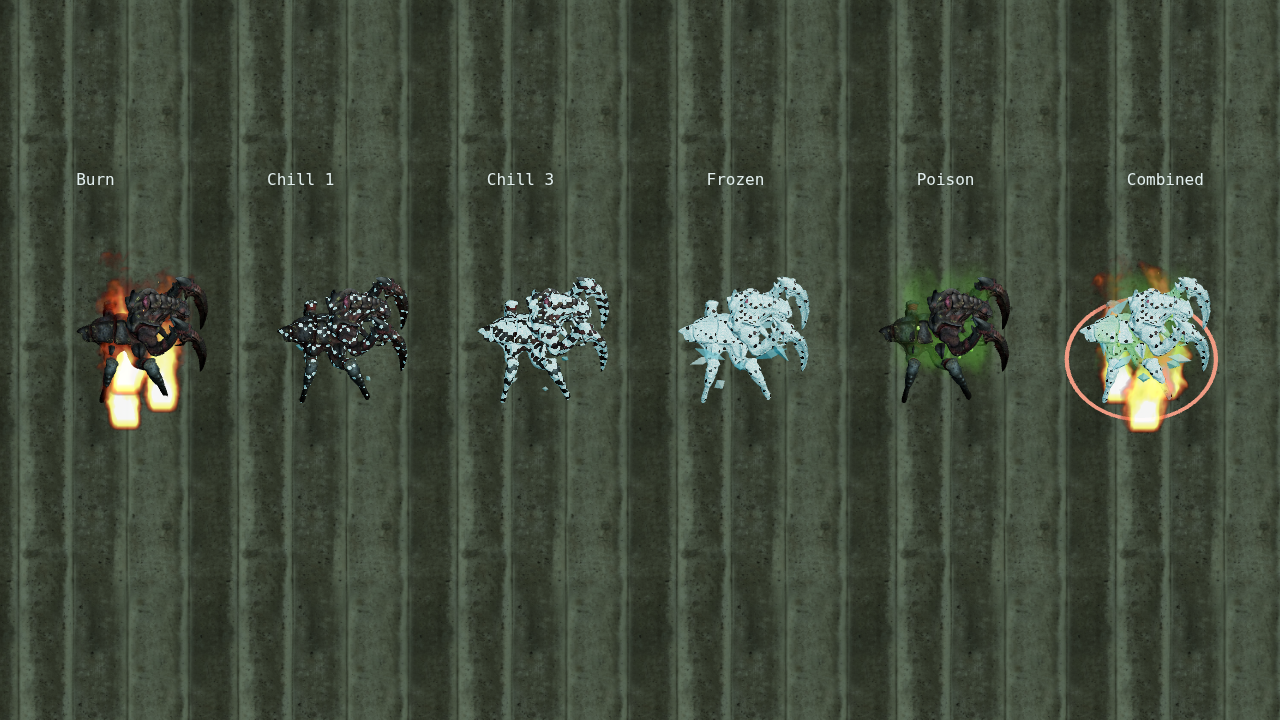
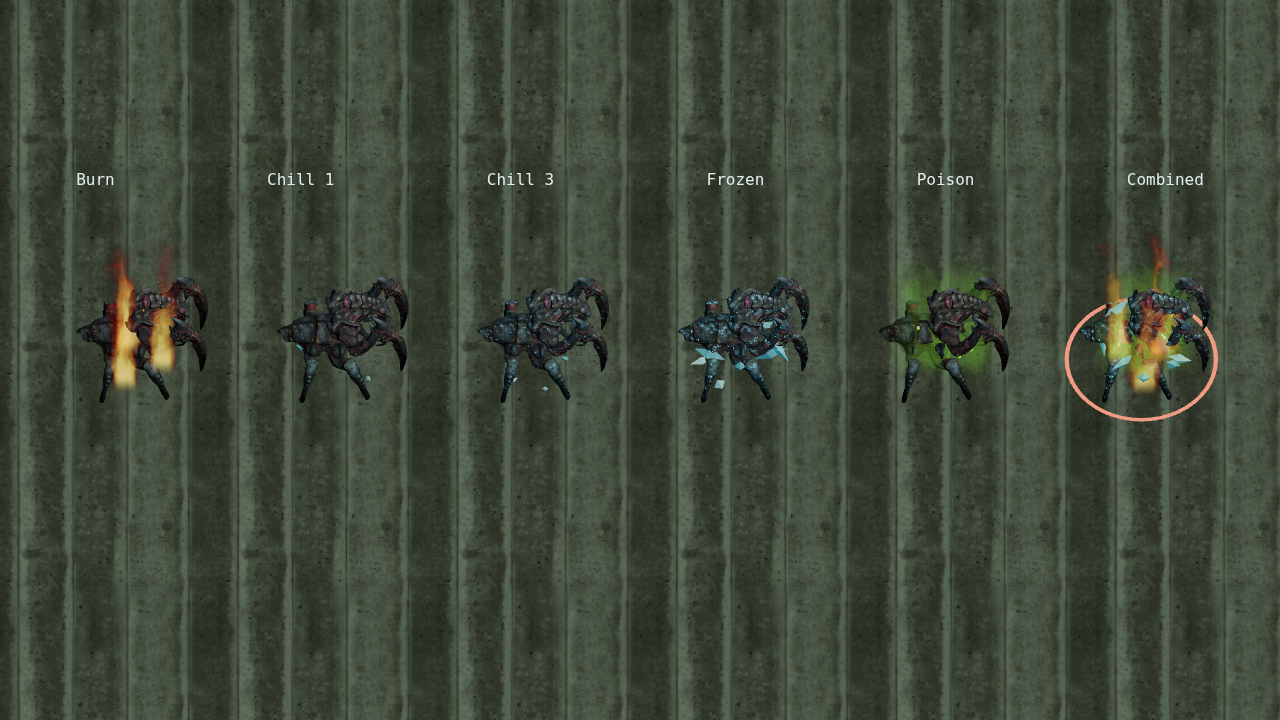
Polish atlas status rendering and branching electric impacts

diff --git a/src/render/afflictions.ts b/src/render/afflictions.ts
@@ -14,15 +14,18 @@ export function afflictionEffects(root:T.Group,span:number,height:number){
     vec3 sp=statusPosition*19.0;
     float grain=fract(sin(dot(floor(sp*6.0),vec3(12.9898,78.233,37.719)))*43758.5453);
     float frostPatch=sin(sp.x*.73)*sin(sp.y*.91)+cos(sp.z*.57);
-    float cover=smoothstep(1.8-statusFrost*3.0,2.1-statusFrost*3.0,frostPatch+grain*.35);
-    float fracture=pow(1.0-abs(sin(sp.x+sin(sp.z)*1.7)*sin(sp.y*.7+sp.z)),24.0);
-    diffuseColor.rgb=mix(diffuseColor.rgb, mix(vec3(.24,.56,.66),vec3(.82,.96,1.0),grain*.45+fracture*.55),cover*.88*step(.01,statusFrost));
-   `);};m.customProgramCacheKey=()=> 'actor-frost-v1';m.needsUpdate=true;
+    float cover=smoothstep(1.65-statusFrost*.85,1.95-statusFrost*.85,frostPatch+grain*.25);
+    float fracture=pow(1.0-abs(sin(sp.x+sin(sp.z)*1.7)*sin(sp.y*.7+sp.z)),32.0);
+    // Translucent blue glaze retains the albedo; bright veins occupy only fractures.
+    vec3 glaze=diffuseColor.rgb*vec3(.65,1.12,1.3)+vec3(.025,.065,.09);
+    diffuseColor.rgb=mix(diffuseColor.rgb,glaze,(.12+cover*.65)*statusFrost);
+    diffuseColor.rgb=mix(diffuseColor.rgb,vec3(.34,.68,.78),cover*fracture*statusFrost*.55);
+   `);};m.customProgramCacheKey=()=> 'actor-frost-v2';m.needsUpdate=true;
  }});
  return {set(status:AfflictionStatus){data.status=status;frost.value=status.frozen?1:status.chilled?Math.min(3,Math.max(1,status.chillStacks??1))*.22:0;},animate(_time:number){},reset(){data.status=NO_AFFLICTION;frost.value=0;}};
 }
-const vertex=`attribute vec4 atlas; varying vec2 texUV; varying float opacity;
-void main(){texUV=atlas.xy+uv*atlas.zw;opacity=1.0;gl_Position=projectionMatrix*modelViewMatrix*instanceMatrix*vec4(position,1.0);}`;
+const vertex=`attribute vec4 atlas; varying vec2 texUV; varying vec2 localUV;
+void main(){texUV=atlas.xy+uv*atlas.zw;localUV=uv;gl_Position=projectionMatrix*modelViewMatrix*instanceMatrix*vec4(position,1.0);}`;
 /** Five shared draws at most: flame, toxic vapor, droplets, ice and embers. */
 export class AfflictionBatches{
  readonly root=new T.Group();
@@ -32,10 +35,16 @@ export class AfflictionBatches{
   const atlas=(name:string,cols:number,rows:number,tint:T.Color,fire=false)=>{
    const texture=loader?.load(`${import.meta.env.BASE_URL}assets/vfx/${name}.png`)??new T.Texture();texture.minFilter=T.LinearFilter;texture.magFilter=T.LinearFilter;texture.generateMipmaps=false;this.textures.push(texture);
    const geometry=new T.PlaneGeometry(1,1);geometry.setAttribute('atlas',new T.InstancedBufferAttribute(new Float32Array(capacity*3*4),4));
-   const material=new T.ShaderMaterial({uniforms:{map:{value:texture},tint:{value:tint}},vertexShader:vertex,fragmentShader:`uniform sampler2D map;uniform vec3 tint;varying vec2 texUV;varying float opacity;void main(){vec4 s=texture2D(map,texUV);float a=${fire?'max(s.r,max(s.g,s.b))*.95':'s.a*.48'};if(a<.015)discard;gl_FragColor=vec4(${fire?'s.rgb*1.8':'tint'},a);}`,transparent:true,depthWrite:false,side:T.DoubleSide,toneMapped:false});
+   // Authored RGBA contains bright RGB outside its silhouette. Never derive coverage from RGB.
+   texture.colorSpace=fire?T.SRGBColorSpace:T.NoColorSpace;
+   const material=new T.ShaderMaterial({uniforms:{map:{value:texture},tint:{value:tint}},vertexShader:vertex,fragmentShader:`uniform sampler2D map;uniform vec3 tint;varying vec2 texUV;varying vec2 localUV;
+void main(){vec4 s=texture2D(map,texUV);float edge=smoothstep(0.0,.12,localUV.y)*smoothstep(0.0,.06,localUV.x)*smoothstep(0.0,.06,1.0-localUV.x);float a=s.a*${fire?'.86':'.48'}*edge;if(a<.008)discard;gl_FragColor=vec4(${fire?'s.rgb*vec3(1.0,.55,.16)':'tint'},a);
+#include <tonemapping_fragment>
+#include <colorspace_fragment>
+}`,transparent:true,depthWrite:false,side:T.DoubleSide,blending:T.NormalBlending});
    const mesh=this.batch(geometry,material,capacity*3);mesh.userData.grid=[cols,rows];return mesh;
   };
-  this.fire=atlas('Flame02',16,4,new T.Color(1,.5,.1),true);this.poison=atlas('WispySmoke02',8,8,new T.Color(.38,.74,.22));
+  this.fire=atlas('Flame02',16,4,new T.Color(1,.5,.1),true);this.poison=atlas('WispySmoke02',8,8,new T.Color(.08,.36,.012));
   this.ice=this.batch(new T.OctahedronGeometry(1,0),new T.MeshStandardMaterial({color:0xa6e2ef,roughness:.24,metalness:.15,transparent:true,opacity:.78,flatShading:true,depthWrite:false}),capacity*10);
   this.drops=this.batch(new T.SphereGeometry(1,6,4),new T.MeshStandardMaterial({color:0x81b94b,emissive:0x345918,emissiveIntensity:.4,roughness:.2}),capacity*4);
   this.embers=this.batch(new T.SphereGeometry(1,4,3),new T.MeshBasicMaterial({color:0xffc675,toneMapped:false}),capacity*4);
@@ -48,13 +57,15 @@ export class AfflictionBatches{
  private card(mesh:T.InstancedMesh,x:number,y:number,z:number,w:number,h:number,time:number,camera:T.Camera){
   const [cols,rows]=mesh.userData.grid,frame=Math.floor(time*24)%64,a=mesh.geometry.getAttribute('atlas') as T.InstancedBufferAttribute;
   // TextureLoader flips PNG vertically; authored frames run left-to-right, top-to-bottom.
-  a.setXYZW(mesh.count,(frame%cols)/cols,1-(Math.floor(frame/cols)+1)/rows,1/cols,1/rows);this.put(mesh,x,y,z,w,h,1,camera);
+  const image=(mesh.material as T.ShaderMaterial).uniforms.map.value.image;
+  const ix=.5/(image?.width??2048),iy=.5/(image?.height??1024);
+  a.setXYZW(mesh.count,(frame%cols)/cols+ix,1-(Math.floor(frame/cols)+1)/rows+iy,1/cols-2*ix,1/rows-2*iy);this.put(mesh,x,y,z,w,h,1,camera);
  }
  update(roots:Iterable<T.Object3D>,camera:T.Camera,time:number){
   for(const mesh of this.meshes)mesh.count=0;let actors=0;
   for(const root of roots){const d=root.userData.affliction as Attachment|undefined;if(!d||!root.visible)continue;const s=d.status;if(!(s.burning||s.poisoned||s.chilled||s.frozen))continue;if(actors++>=this.capacity)break;
    root.getWorldPosition(this.pos);const {x,y,z}=this.pos,r=d.span*.29,h=d.height,t=time+d.phase;
-   if(s.burning){for(let i=0;i<3;i++){const a=i*2.094+d.phase;this.card(this.fire,x+Math.cos(a)*r*.65,y+h*.43,z+Math.sin(a)*r*.65,d.span*.52,Math.max(h*1.5,1.2),t+i*.51,camera);}for(let i=0;i<4;i++){const p=(t*.6+i*.25)%1,a=i*2.4;this.put(this.embers,x+Math.cos(a+p)*r*.7,y+h*.5+p*h,z+Math.sin(a)*r*.5,.022*(1-p),.055*(1-p),.022);}}
+   if(s.burning){for(let i=0;i<3;i++){const a=i*2.094+d.phase;this.card(this.fire,x+Math.cos(a)*r*.65,y+h*.95,z+Math.sin(a)*r*.65,d.span*.40,Math.max(h*1.45,1.2),t+i*.51,camera);}for(let i=0;i<4;i++){const p=(t*.6+i*.25)%1,a=i*2.4;this.put(this.embers,x+Math.cos(a+p)*r*.7,y+h*.5+p*h,z+Math.sin(a)*r*.5,.022*(1-p),.055*(1-p),.022);}}
    if(s.poisoned){for(let i=0;i<2;i++)this.card(this.poison,x+(i?1:-1)*r*.5,y+h*.6,z,d.span*.65,h*1.35,t*.7+i*.7,camera);for(let i=0;i<4;i++){const p=(t*.45+i*.25)%1,a=i*2.4;this.put(this.drops,x+Math.cos(a)*r*.8,y+h*(1-p)*.8+.05,z+Math.sin(a)*r*.8,.045,.075,.045);}}
    if(s.frozen||s.chilled){const n=s.frozen?10:Math.min(3,Math.max(1,s.chillStacks??1))*2;for(let i=0;i<n;i++){const a=i*2.399+d.phase,large=s.frozen?1:.52;this.put(this.ice,x+Math.cos(a)*r,y+.08+(i%3)*h*.18,z+Math.sin(a)*r,.11*large,.3*large*(1+(i%3)*.35),.15*large,undefined,a);this.color.setHex(i%3?0x9cd5e5:0xe5fbff);this.ice.setColorAt(this.ice.count-1,this.color);}}
   }

diff --git a/src/render/AttackEffects.ts b/src/render/AttackEffects.ts
@@ -2,6 +2,7 @@ import * as T from 'three';
 import type {WeaponId} from '../game/combat/types';
 import type {Bullet,GameEffect} from '../DepthGame';
 import {WEAPON_APPEARANCE} from './weapons';
+import {electricArc} from './electricArc';
 const UP=new T.Vector3(0,1,0),WHITE=new T.Color(0xffffff);
 type Particle={p:T.Vector3;v:T.Vector3;color:T.Color;age:number;life:number;size:number;stretch:number;spin:number;rotation:number;gravity:number;ground:boolean};
 type Pulse={p:T.Vector3;color:T.Color;age:number;life:number;radius:number;angle:number;slash:boolean;stable:boolean};
@@ -23,6 +24,7 @@ function pool(scene:T.Scene,geometry:T.BufferGeometry,count:number,style:number,
 }
 /** Bounded GPU instance pools: no lights or draw call per pellet / particle. */
 export class AttackEffects {
+ private arcs:{start:T.Vector3;end:T.Vector3;age:number;seed:number}[]=[];
  private glow:Particle[]=[];private smoke:Particle[]=[];private debris:Particle[]=[];private decals:Particle[]=[];private pulses:Pulse[]=[];
  private glowMesh:T.InstancedMesh;private smokeMesh:T.InstancedMesh;private debrisMesh:T.InstancedMesh;private decalMesh:T.InstancedMesh;private pulseMesh:T.InstancedMesh;private slashMesh:T.InstancedMesh;private beamMesh:T.InstancedMesh;
  private dummy=new T.Object3D();private forward=new T.Vector3();private previous=new WeakMap<Bullet,T.Vector3>();private trailClock=0;private boonBursts=0;private arcBursts=0;
@@ -74,11 +76,18 @@ export class AttackEffects {
    if(this.boonBursts++>=8)return;
    const colors={frost:0x8cdeed,arc:0xb3bbff,burn:0xf89847,impact:0xf5dab0,leech:0xbb7385,shield:0x86c9ce,overload:0xf4b96b,poison:0x5dd8b6,charge:0xd6b9f3,blast:0xffba71,shatter:0xa3eaf3,field:0x75bdcf},color=colors[e.boon??'impact'];
    if(e.targetX!==undefined&&e.targetY!==undefined){
-    if(this.arcBursts++>=2)return;const end=new T.Vector3(e.targetX/32,.8,e.targetY/32),line=end.clone().sub(p),side=new T.Vector3(-line.z,0,line.x).normalize();
-    for(let i=0;i<=20;i++){const point=p.clone().addScaledVector(line,i/20).addScaledVector(side,(i%2?1:-1)*.09*Math.sin(i/20*Math.PI));this.particle(this.glow,EFFECT_LIMITS.glow,point,color,.14,.15);}return;
+    if(this.arcBursts++>=2)return;const end=new T.Vector3(e.targetX/32,.8,e.targetY/32);
+    if(this.arcs.length>=6)this.arcs.shift();this.arcs.push({start:p.clone(),end,age:0,seed:Math.floor(Math.random()*65536)});
+    this.particle(this.glow,EFFECT_LIMITS.glow,end,0xddeaff,.48,.10);
+    for(let i=0;i<9;i++){const a=i*2.399;this.particle(this.glow,EFFECT_LIMITS.glow,end,i%2?0x8d9bff:0xcbefff,.065,.18+Math.random()*.16,new T.Vector3(Math.cos(a)*2,.4+Math.random()*2,Math.sin(a)*2),4);}
+    return;
    }
    if(e.boon==='field'){this.pulse(new T.Vector3(p.x,.025,p.z),color,(e.radius??75)/32,(e.durationMs??2000)/1000,0,false,true);return;}
    if(e.boon==='charge'){this.particle(this.glow,EFFECT_LIMITS.glow,p,color,.25,(e.durationMs??450)/1000);return;}
+   if(e.boon==='shatter'){
+    for(let i=0;i<18;i++){const a=i*2.399;this.particle(this.debris,EFFECT_LIMITS.debris,p,i%3?0x64b7d5:0xb9efff,.10+Math.random()*.08,.65+Math.random()*.3,new T.Vector3(Math.cos(a)*(2+Math.random()*3),1+Math.random()*3,Math.sin(a)*(2+Math.random()*3)),8,2.7);}
+    this.particle(this.smoke,EFFECT_LIMITS.smoke,p,0x91c4d5,.7,.35,new T.Vector3(0,.25,0));return;
+   }
    const frost=e.boon==='frost',shield=e.boon==='shield'||e.boon==='leech';
    this.pulse(new T.Vector3(p.x,.05,p.z),color,e.radius?e.radius/32:frost?1.3:shield?.65:.8,frost?.45:.3);
    for(let i=0;i<(frost?7:5);i++){const a=i*6.28/7,v=new T.Vector3(Math.cos(a)*.8,shield?1.4:.5,Math.sin(a)*.8);this.particle(this.glow,EFFECT_LIMITS.glow,p,color,frost?.12:.10,.35,v,0);}
@@ -148,6 +157,20 @@ export class AttackEffects {
     if(id==='rocket')this.particle(this.smoke,EFFECT_LIMITS.smoke,p,0x77817d,.25,.6,new T.Vector3(0,.2,0));
    }
   }
+  // Reuse the bounded beam pool: broad violet corona plus thin blue-white core.
+  for(const arc of this.arcs){
+   arc.age+=dt;if(arc.age>=.26)continue;
+   const strike=Math.floor(arc.age/.045),fade=Math.pow(1-arc.age/.26,.6)*(strike%2?.65:1);
+   for(const segment of electricArc(arc.start,arc.end,arc.seed+strike))for(let layer=0;layer<2;layer++){
+    if(beam>=EFFECT_LIMITS.beams)break;
+    this.forward.copy(segment.end).sub(segment.start);const length=this.forward.length();
+    this.dummy.position.copy(segment.start).add(segment.end).multiplyScalar(.5);this.dummy.quaternion.setFromUnitVectors(UP,this.forward.normalize());
+    const width=(layer?.012:.045)*(segment.branch?.55:1);
+    this.dummy.scale.set(width,length,width);this.dummy.updateMatrix();this.beamMesh.setMatrixAt(beam,this.dummy.matrix);
+    this.beamMesh.setColorAt(beam,new T.Color(layer?0xc4eaff:0x666dff));alpha.setX(beam++,fade*(layer?.95:.22));
+   }
+  }
+  this.arcs=this.arcs.filter(a=>a.age<.26);
   this.finish(this.beamMesh,beam);
   this.drawParticles(this.glow,this.glowMesh,dt,camera,'glow');this.drawParticles(this.smoke,this.smokeMesh,dt,camera,'smoke');this.drawParticles(this.debris,this.debrisMesh,dt,camera,'debris');this.drawParticles(this.decals,this.decalMesh,dt,camera,'decal');
   let ring=0,slash=0;for(const pulse of this.pulses){pulse.age+=dt;if(pulse.age>=pulse.life)continue;const t=pulse.age/pulse.life,mesh=pulse.slash?this.slashMesh:this.pulseMesh,index=pulse.slash?slash++:ring++;
@@ -155,7 +178,7 @@ export class AttackEffects {
   }
   this.pulses=this.pulses.filter(p=>p.age<p.life);this.finish(this.pulseMesh,ring);this.finish(this.slashMesh,slash);
  }
- clear(){this.glow=[];this.smoke=[];this.debris=[];this.decals=[];this.pulses=[];this.previous=new WeakMap();for(const m of this.meshes())m.count=0;}
+ clear(){this.arcs=[];this.glow=[];this.smoke=[];this.debris=[];this.decals=[];this.pulses=[];this.previous=new WeakMap();for(const m of this.meshes())m.count=0;}
  get counts(){return{glow:this.glow.length,smoke:this.smoke.length,debris:this.debris.length,pulses:this.pulses.length,decals:this.decals.length};}
  private meshes(){return[this.glowMesh,this.smokeMesh,this.debrisMesh,this.decalMesh,this.pulseMesh,this.slashMesh,this.beamMesh];}
  dispose(){for(const m of this.meshes()){m.geometry.dispose();(m.material as T.Material).dispose();m.removeFromParent();}}

diff --git a/tests/ElectricArc.test.ts b/tests/ElectricArc.test.ts
@@ -1,0 +1,21 @@
+import {it,expect} from 'vitest';
+import * as T from 'three';
+import {electricArc} from '../src/render/electricArc';
+import {AttackEffects,EFFECT_LIMITS} from '../src/render/AttackEffects';
+it('anchors a continuous trunk with three finite branching forks and seeded restrikes',()=>{
+ const a=new T.Vector3(),b=new T.Vector3(5,.8,2),s=electricArc(a,b,42);
+ expect(s).toHaveLength(21);expect(s.filter(x=>x.branch)).toHaveLength(9);
+ expect(s[0].start.equals(a)).toBe(true);expect(s[11].end.equals(b)).toBe(true);
+ for(let i=1;i<12;i++)expect(s[i].start.equals(s[i-1].end)).toBe(true);
+ expect(electricArc(a,b,42)).toEqual(s);expect(electricArc(a,b,43)).not.toEqual(s);
+ expect(electricArc(a,a,1)).toEqual([]);
+});
+it('shares the bounded beam draw, expires lightning and clears transient shards',()=>{
+ const scene=new T.Scene(),fx=new AttackEffects(scene),camera=new T.PerspectiveCamera();
+ for(let i=0;i<40;i++){fx.event({type:'boon',x:0,y:0,boon:'arc',targetX:160,targetY:0});fx.update(.001,camera,[]);}
+ const beams=scene.children[6] as T.InstancedMesh;
+ expect(beams.count).toBeGreaterThan(0);expect(beams.count).toBeLessThanOrEqual(EFFECT_LIMITS.beams);expect(scene.children).toHaveLength(7);
+ fx.update(.4,camera,[]);expect(beams.count).toBe(0);
+ fx.event({type:'boon',x:0,y:0,boon:'shatter'});expect(fx.counts.debris).toBe(18);
+ fx.clear();expect(scene.children.every(m=>(m as T.InstancedMesh).count===0)).toBe(true);fx.dispose();
+});

diff --git a/src/render/electricArc.ts b/src/render/electricArc.ts
@@ -1,0 +1,22 @@
+import * as T from 'three';
+export type ArcSegment={start:T.Vector3;end:T.Vector3;branch:boolean};
+/** Fixed segment budget, coherent forks, and anchored endpoints. Seed changes per restrike. */
+export function electricArc(start:T.Vector3,end:T.Vector3,seed:number):ArcSegment[]{
+ let state=(seed|0)+1;const random=()=>{state=(Math.imul(state,1664525)+1013904223)|0;return(state>>>0)/4294967296;};
+ const axis=end.clone().sub(start),length=axis.length(),side=new T.Vector3(-axis.z,0,axis.x).normalize();
+ if(length<.001)return[];
+ const points=[start.clone()],result:ArcSegment[]=[];
+ for(let i=1;i<=12;i++){
+  const t=i/12,p=start.clone().addScaledVector(axis,t);
+  if(i<12){p.addScaledVector(side,(i%2?1:-1)*(.2+random()*.8)*Math.min(1,length*.2)*Math.sin(t*Math.PI));p.y+=(random()-.5)*.4;}
+  result.push({start:points[i-1],end:p,branch:false});points.push(p);
+ }
+ for(const fork of [3,6,9]){
+  let p=points[fork];const sign=random()<.5?-1:1;
+  for(let j=1;j<=3;j++){
+   const q=p.clone().addScaledVector(axis,j%2?.025:-.012).addScaledVector(side,sign*(.16+random()*.25));q.y+=(random()-.3)*.3;
+   result.push({start:p,end:q,branch:true});p=q;
+  }
+ }
+ return result;
+}

diff --git a/tests/StatusBatches.test.ts b/tests/StatusBatches.test.ts
@@ -9,3 +9,11 @@ it('batches crowds with independent statuses, bounded capacity and immediate ret
  expect(batch.counts.fire).toBe(24);expect(batch.counts.poison).toBe(16);expect(batch.counts.ice).toBeGreaterThan(0);
  roots.forEach(r=>r.removeFromParent());batch.update(scene.children,new T.PerspectiveCamera(),1);expect(Object.values(batch.counts).every(n=>n===0)).toBe(true);batch.dispose();
 });
+it('samples authored alpha and inset sRGB flame cells',()=>{
+ const scene=new T.Scene(),batch=new AfflictionBatches(undefined,1),root=new T.Group();scene.add(root);
+ afflictionEffects(root,2,1).set({chilled:false,burning:true});batch.update(scene.children,new T.Camera(),1);
+ const fire=batch.root.children[0] as T.InstancedMesh,material=fire.material as T.ShaderMaterial;
+ expect(material.fragmentShader).toContain('float a=s.a*');expect(material.fragmentShader).not.toContain('max(s.r');
+ expect(material.uniforms.map.value.colorSpace).toBe(T.SRGBColorSpace);
+ const uv=fire.geometry.getAttribute('atlas');expect(uv.getZ(0)).toBeLessThan(1/16);expect(uv.getW(0)).toBeLessThan(1/4);batch.dispose();
+});
